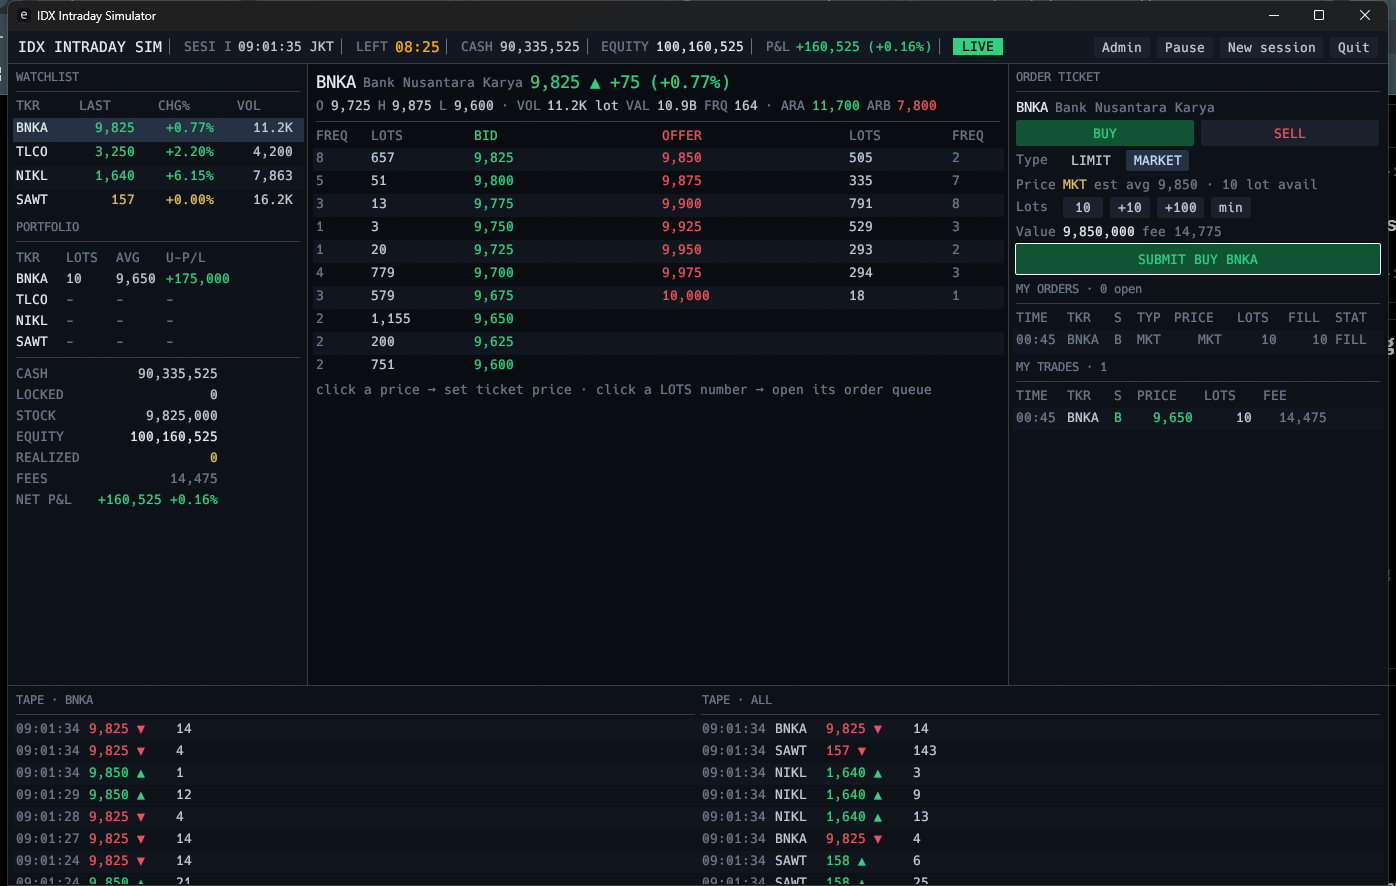
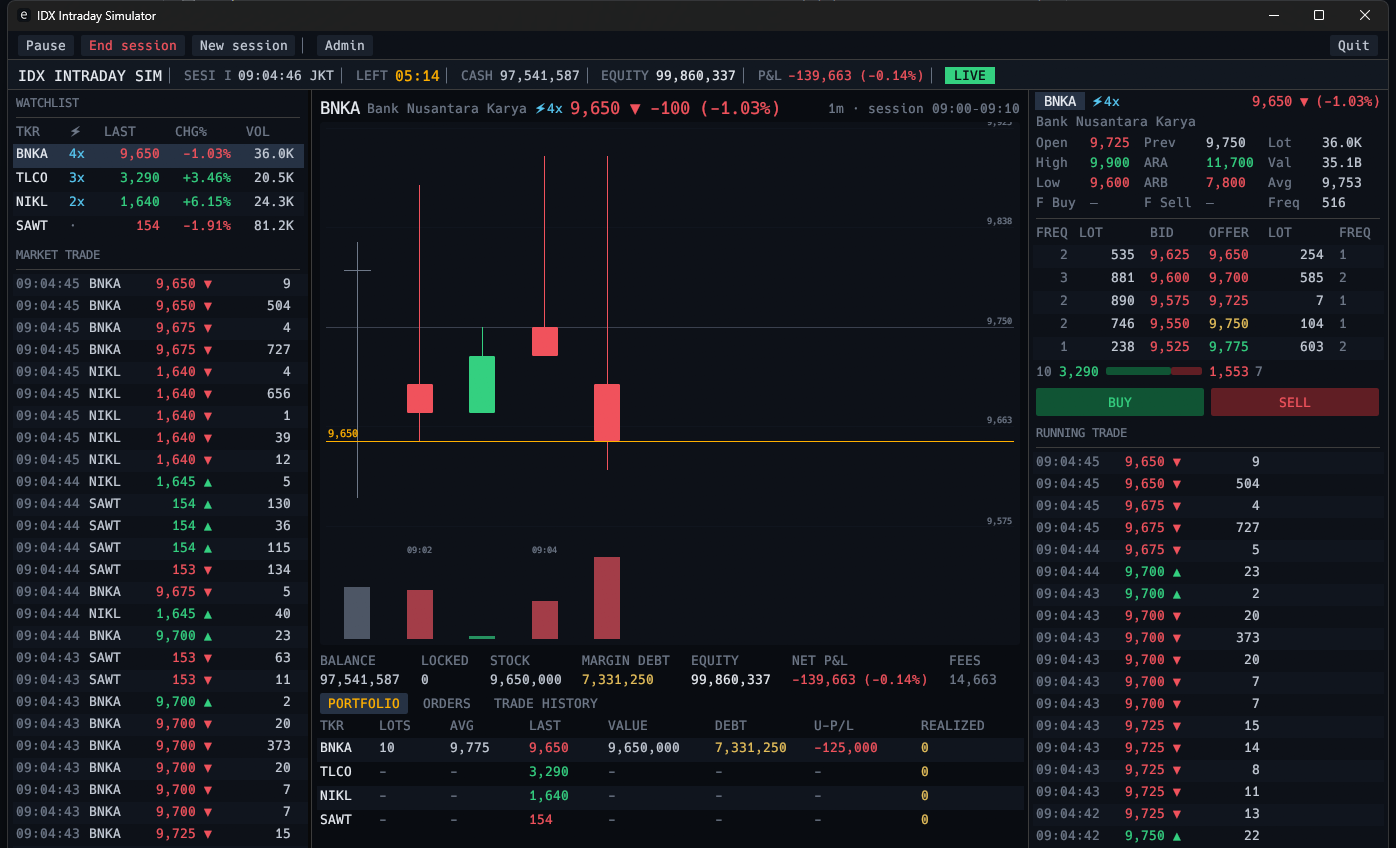
v0.2.0: refresh README features and screenshots

diff --git a/README.md b/README.md
@@ -27,15 +27,24 @@ unzip, and run `idx-game-sim.exe`. No installer, no dependencies.
   personality (spread, depth, retail flow, whale behavior).
 - **IDX mechanics**: 1 lot = 100 shares, real tick-size ladder, ARA/ARB
   auto-reject price bounds, and realistic buy/sell fees.
-- **Order book**: full depth with per-level order queues — click a LOTS
-  number to inspect the live queue at that price.
-- **Real intraday anonymity**: like the real IDX, broker codes and
-  foreign/domestic investor types are *hidden* while the market trades.
-  Your own orders are always marked `YOU`.
+- **Orderbook panel**: 5 best levels with freq/lot per side, buy-vs-sell
+  pressure bar, and per-level order queues — click a LOTS number to
+  inspect the live queue at that price.
+- **1-minute chart**: candlestick + volume chart of the session, drawn by
+  a built-in charting engine.
+- **Margin & leverage**: liquidity-tiered margin — `BNKA` 4x, `TLCO` 3x,
+  `NIKL` 2x, while gorengan `SAWT` trades cash-only. Leveraged buys
+  commit `value/leverage` cash and book the rest as margin debt, repaid
+  as you sell.
+- **Real intraday anonymity**: like the real IDX, broker codes,
+  foreign/domestic investor types, and foreign buy/sell value are
+  *hidden* while the market trades. Your own orders are always marked
+  `YOU`.
 
 ### Post-close reports
 
-After the close everything is revealed, IDX-style:
+After the close everything is revealed, IDX-style: F Buy / F Sell in the
+orderbook panel, broker codes on the tapes, plus three reports:
 
 - **Broker Summary** — per-stock buy/sell volume, value, and average price by
   broker, with foreign/domestic flags.
